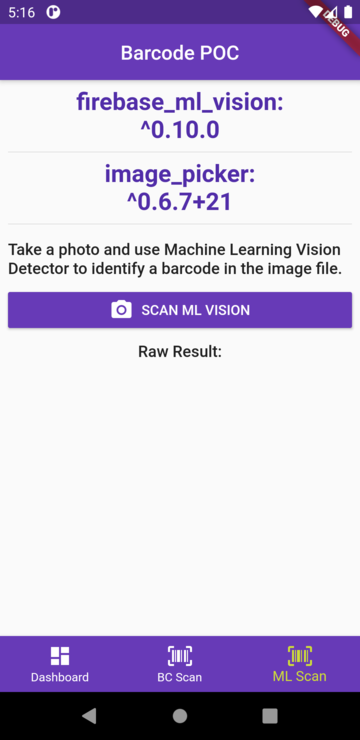
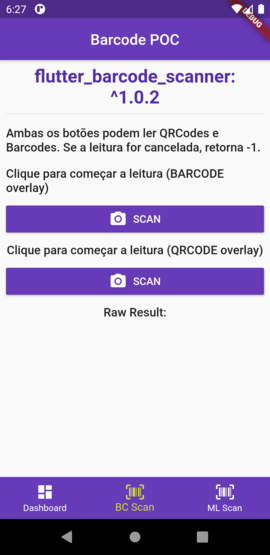
change text to pt-br

diff --git a/lib/pages/bc_scan_page.dart b/lib/pages/bc_scan_page.dart
@@ -27,14 +27,14 @@ class _BCScanPageState extends State<BCScanPage> {
             Divider(),
             PaddedBodyText(
                 text:
-                    "Both scans read QRcodes and Barcodes. If scanning is canceled, returns -1."),
-            PaddedBodyText(text: "Click to start scanning BARCODE overlay:"),
+                    "Ambas os botões podem ler QRCodes e Barcodes. Se a leitura for cancelada, retorna -1."),
+            PaddedBodyText(text: "Clique para começar a leitura (BARCODE overlay)"),
             CustomRaisedButton(
               text: "Scan",
               icon: Icons.camera_alt,
               onPressed: () => _scan(ScanMode.BARCODE),
             ),
-            PaddedBodyText(text: "Click to start scanning QRCODE overlay:"),
+            PaddedBodyText(text: "Clique para começar a leitura (QRCODE overlay)"),
             CustomRaisedButton(
               text: "Scan",
               icon: Icons.camera_alt,

diff --git a/lib/pages/ml_scan_page.dart b/lib/pages/ml_scan_page.dart
@@ -46,7 +46,7 @@ class _MLScanPageState extends State<MLScanPage> {
               Divider(),
               PaddedBodyText(
                   text:
-                      "Take a photo and use Machine Learning Vision Detector to identify a barcode in the image file."),
+                      "Tire uma foto e o Machine Learning Vision Detector irá tentar identificar o barcode na imagem."),
               CustomRaisedButton(
                 text: "Scan ML Vision",
                 icon: Icons.camera_alt,
@@ -81,7 +81,9 @@ class _MLScanPageState extends State<MLScanPage> {
         await barcodeDetector.detectInImage(visionImage);
 
     //extrair o conteudo
+    setState(() {
     text = "";
+    });
     for (Barcode barcode in barcodes) {
       final String rawValue = barcode.rawValue;
       final BarcodeValueType valueType = barcode.valueType;

diff --git a/lib/pages/dashboard_page.dart b/lib/pages/dashboard_page.dart
@@ -37,7 +37,7 @@ class DashboardPage extends StatelessWidget {
             PaddedBodyText(
                 text: "Clique no botão \"ML Scan\" para testar a lib:"),
             Text(
-              "\"https://github.com/FirebaseExtended/flutterfire/tree/master/packages/firebase_ml_vision",
+              "\"https://pub.dev/packages/firebase_ml_vision\"",
               style: _theme.textTheme.headline6,
             ),
           ],
